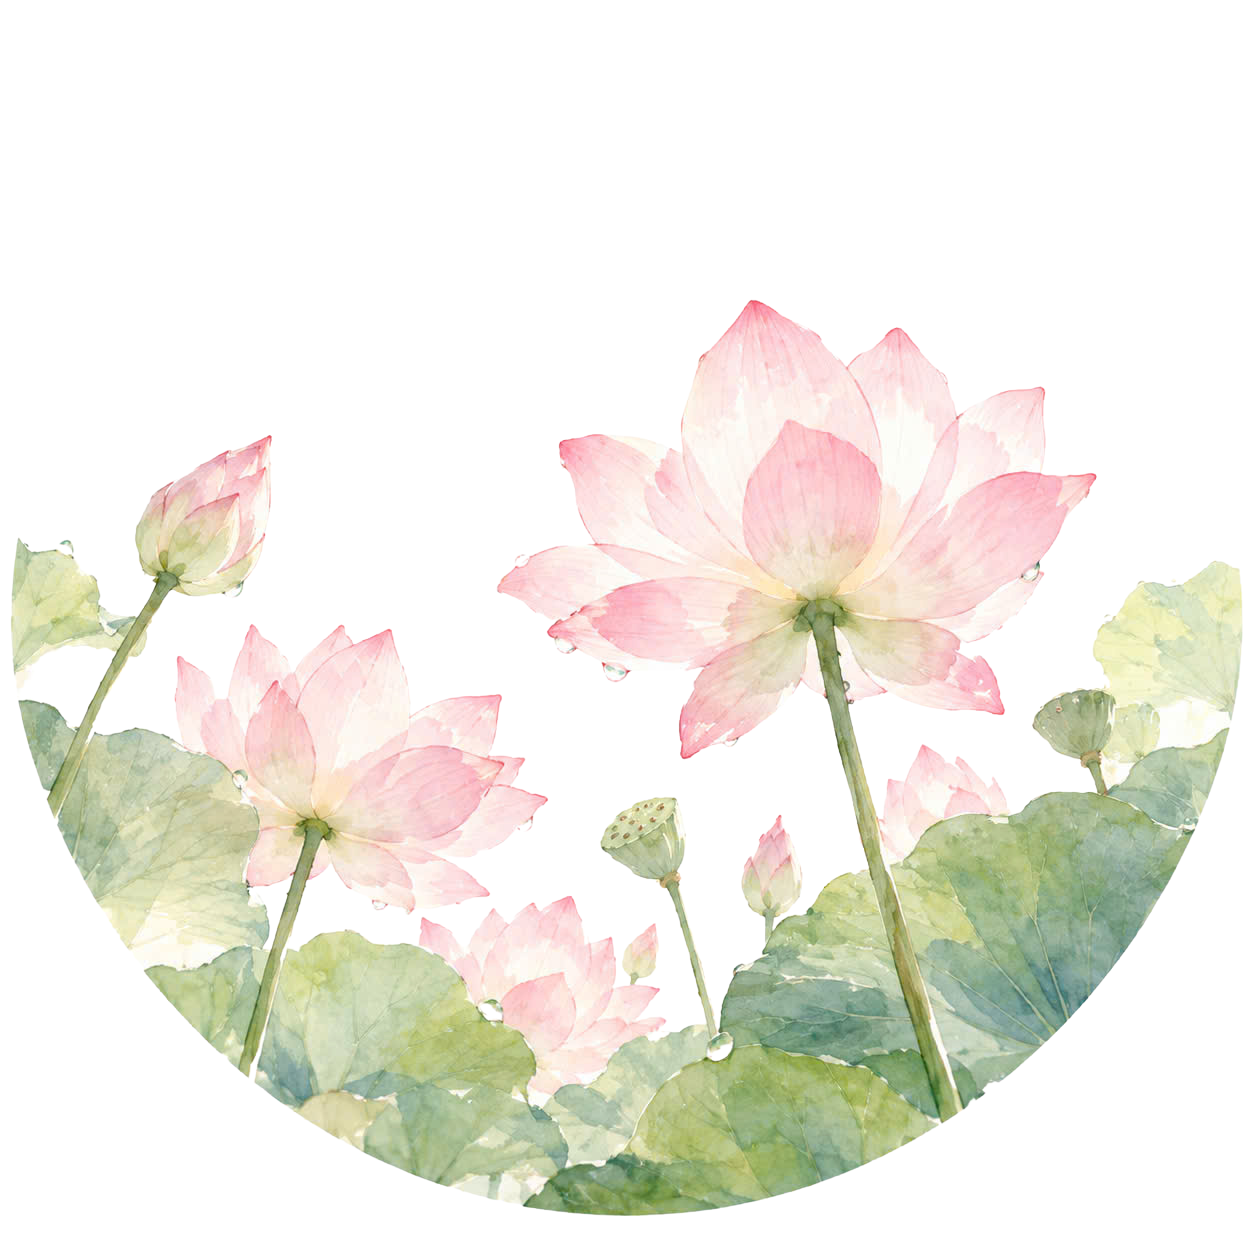
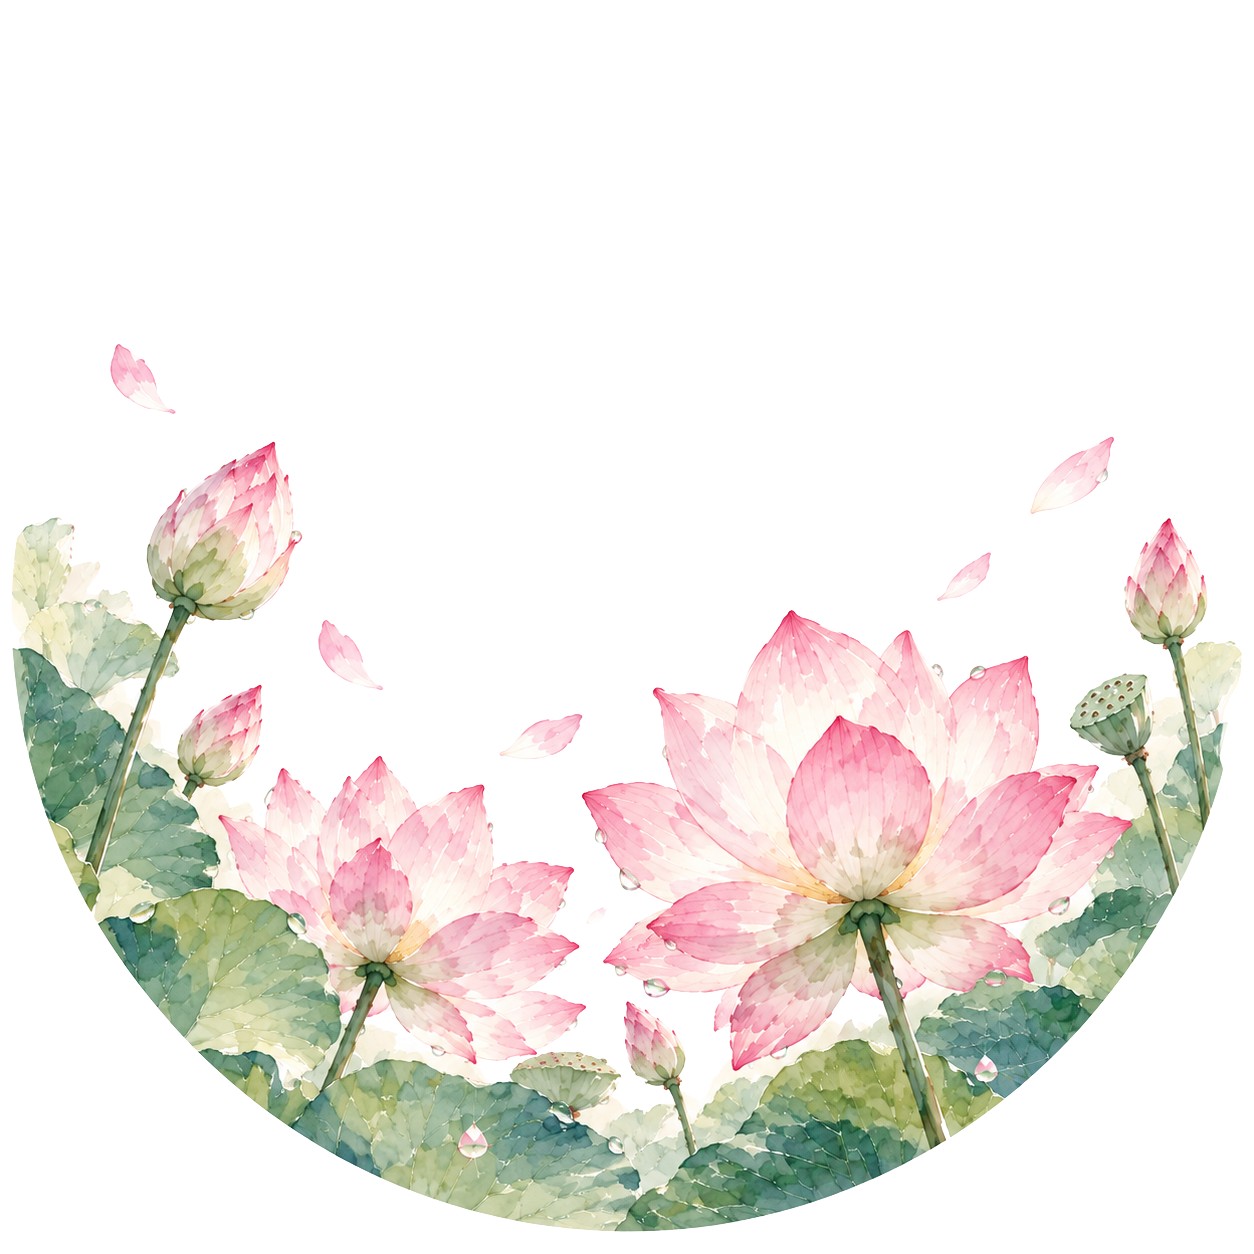
Add files via upload

diff --git a/style.css b/style.css
@@ -254,8 +254,6 @@ body {
   border: 3px solid #FFFFFF;
   margin-bottom: 10px;
   overflow: hidden;
-  z-index: 1;
-  pointer-events: none;
 }
 
 /* Hoa văn mờ giữa mặt đồng hồ */
@@ -265,8 +263,9 @@ body {
   width: 100%;
   height: 100%;
   font-size: 1.5rem;
-  opacity: 0.5;
+  opacity: 0.85;
   pointer-events: none;
+  z-index: 1;
 }
 .sen-pattern {
   background-image: url('nenlotus.png');
@@ -284,13 +283,20 @@ body {
 /* Vạch kẻ chia 12h */
 .clock-tick-mark {
   position: absolute;
-  width: 1.5px;
-  height: 5px;
-  background: #D0D0D0;
-  top: 4px;
-  left: calc(50% - 0.75px);
-  transform-origin: 0.75px 51px;
-  opacity: 2;
+  top: 50%;
+  left: 50%;
+  width: 1.25px;
+  height: 8.5px;
+  opacity: 1;
+  border-radius: 2px;
+  z-index: 4;
+  pointer-events: none;
+}
+.vn-card .clock-tick-mark {
+  background-color: #365038;
+}
+.jp-card .clock-tick-mark {
+  background-color: #5c2f3a;
 }
 
 /* Nút chốt màu ở tâm */

diff --git a/script.js b/script.js
@@ -1,12 +1,15 @@
 // 1. Hàm tự động vẽ 12 vạch chia giờ tròn xịn xò
 function buildClockTicks(clockFaceId) {
     const clockFace = document.getElementById(clockFaceId);
+    const offsetDistance = "-62px";
     if (!clockFace) return;
     
     for (let i = 0; i < 12; i++) {
         const tick = document.createElement('div');
         tick.className = 'clock-tick-mark';
-        tick.style.transform = `rotate(${i * 30}deg)`;
+        if (i % 3 === 0) tick.classList.add("main-tick");
+        const angle = i * 30;
+        tick.style.transform = `translate(-50%, -50%) rotate(${angle}deg) translateY(${offsetDistance})`;
         clockFace.appendChild(tick);
     }
 }
